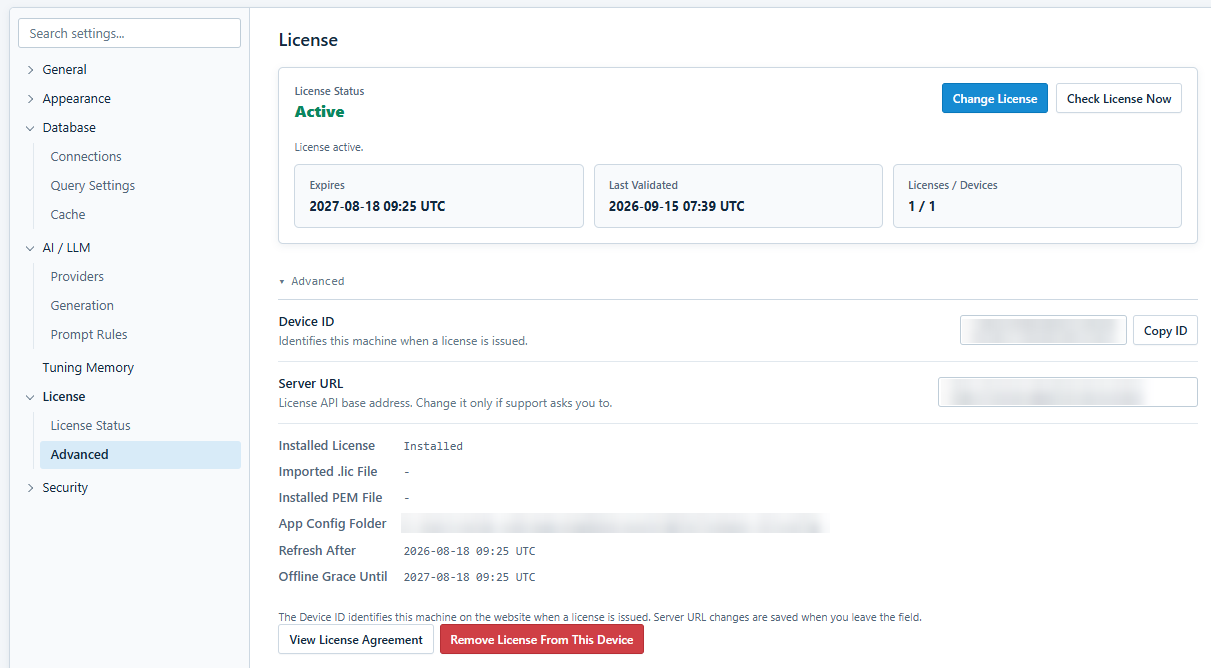
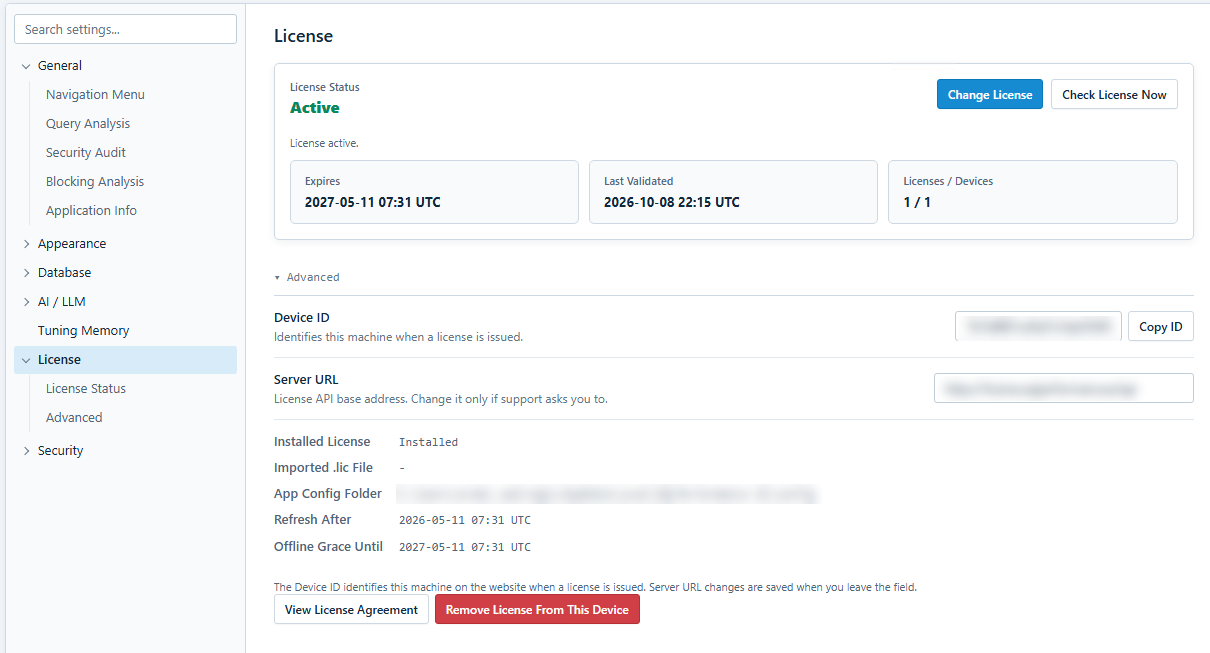
docs(settings): new License screenshot without the Installed PEM File row
Device ID, Server URL and the config folder are blurred. Live as 429feaaa.

diff --git a/app/docs/settings.tsx b/app/docs/settings.tsx
@@ -550,8 +550,8 @@ export default function SettingsTemplate() {
         }
         image="/docs/settings/license.png"
         alt="Settings License page showing an active license with expiry, last validated, and device count cards, and the Advanced section with blurred device and folder details"
-        width={1211}
-        height={668}
+        width={1210}
+        height={653}
       />
 
       <ScreenshotCard
